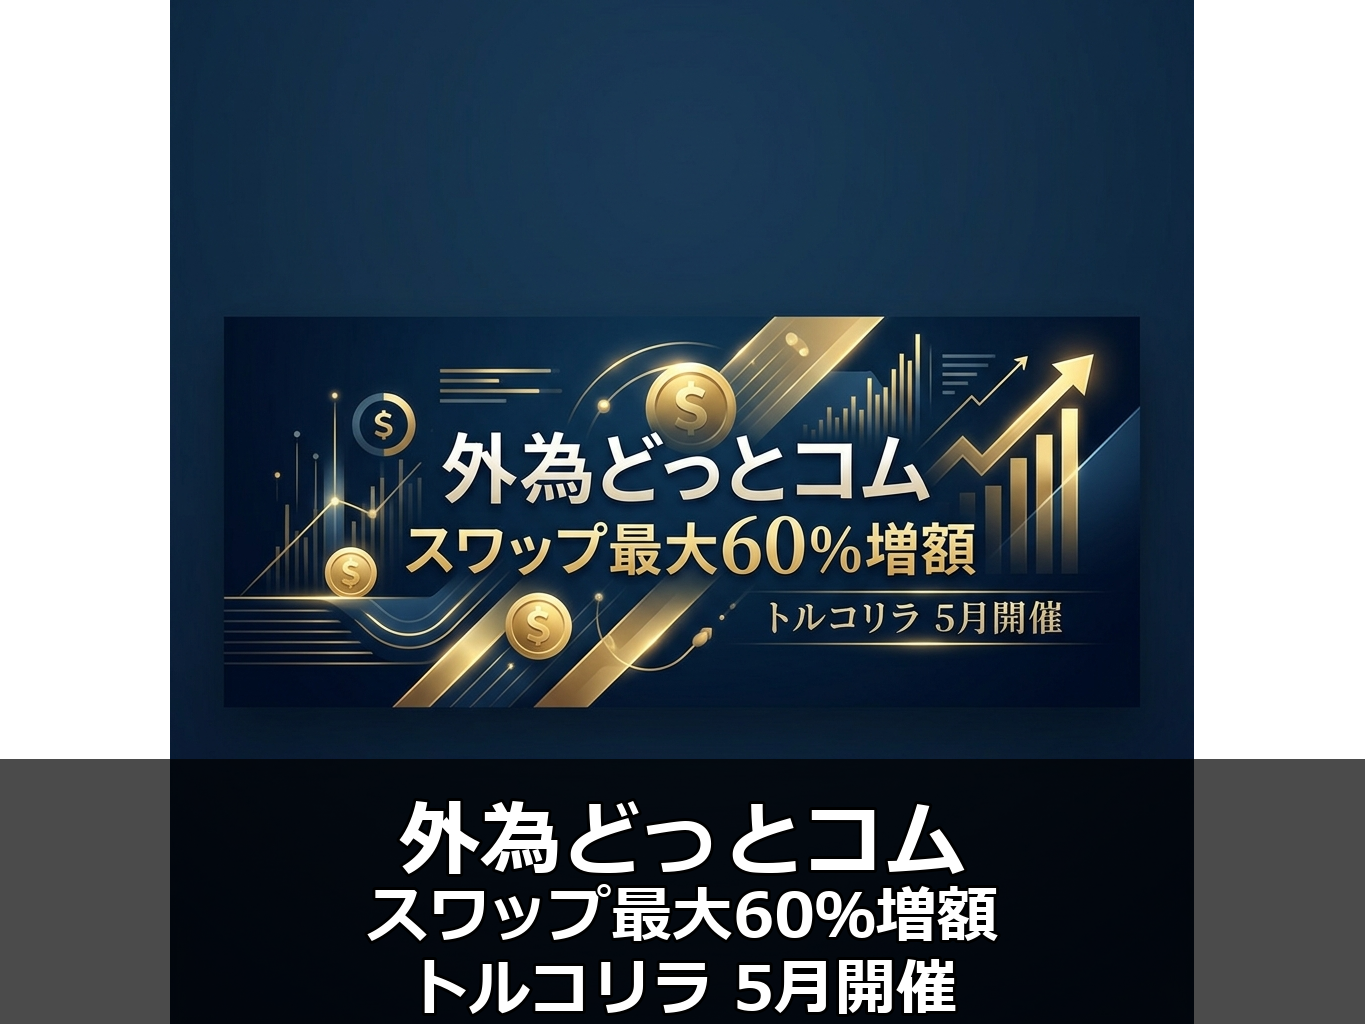
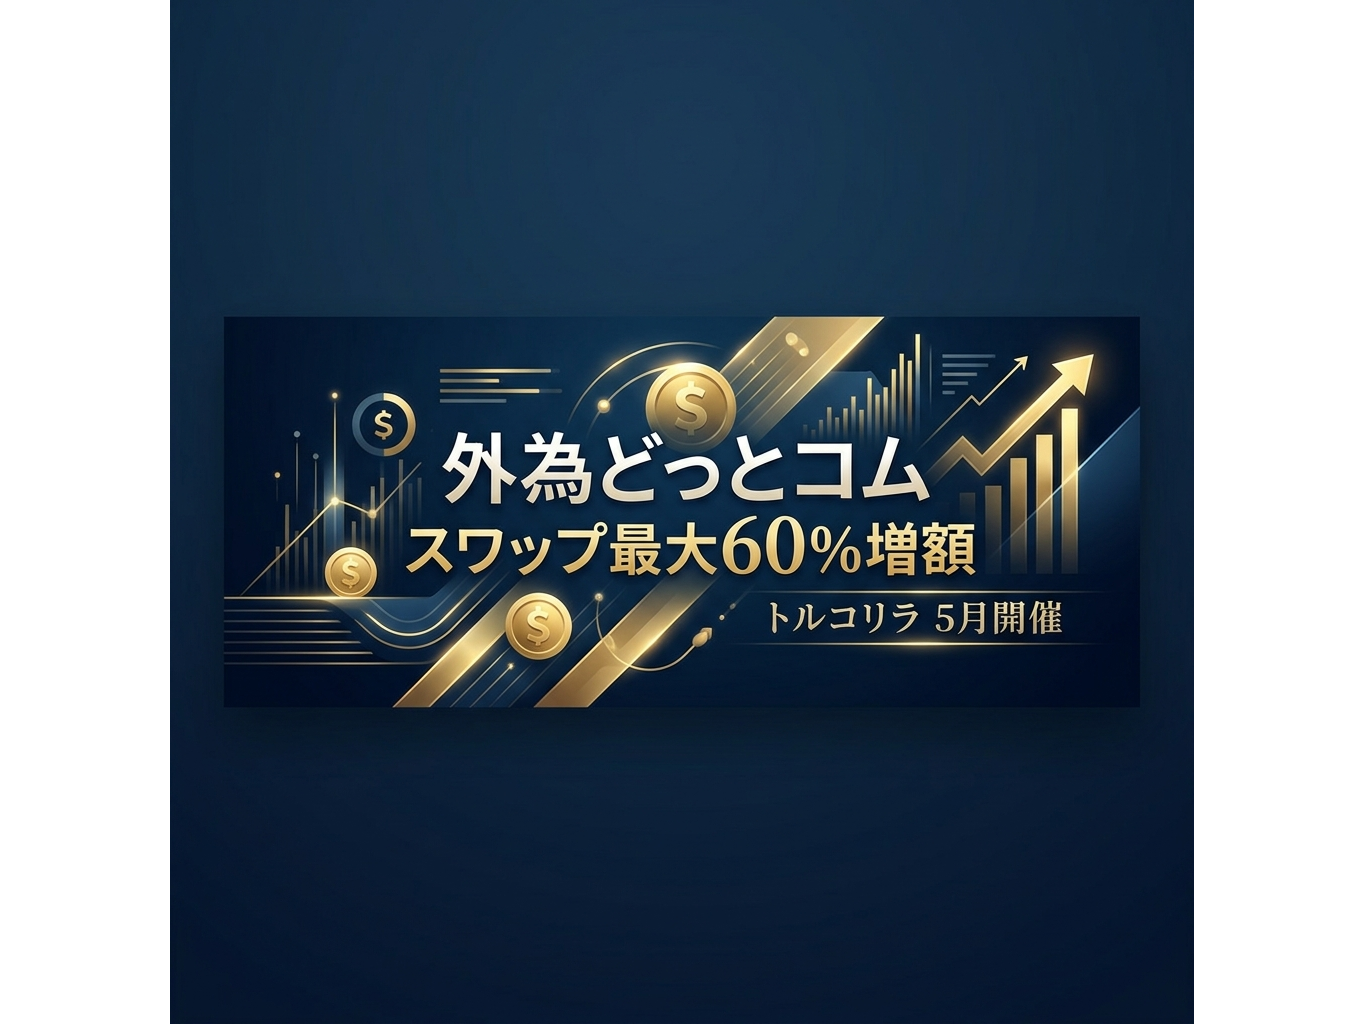
Fix: Remove unwanted title bar from thumbnail

Changed region(s): [[0.0, 0.7188, 1.0, 1.0]]

diff --git a/data/articles.ts b/data/articles.ts
@@ -15,7 +15,6 @@ export const articles: Article[] = [
   id: 'gaitame-swap-campaign-202605',
   title: '【2026年5月】外為どっとコム：トルコリラスワップ最大60％増額キャンペーンが再び開催！',
   share_title: 'トルコリラスワップ最大60％増額キャンペーンが5月も開催！（外為どっとコム）',
-  thumbnail_text: '外為どっとコム\nスワップ最大60％増額\nトルコリラ 5月開催',
   date: '2026/05/02',
   thumbnail: '/images/gaitame-swap-campaign-202605_60.png',
   tags: ['FX', 'トルコリラ', 'スワップ投資', '外為どっとコム', 'キャンペーン'],

diff --git a/scripts/crop_and_place_thumbnail.py b/scripts/crop_and_place_thumbnail.py
@@ -101,8 +101,9 @@ def get_article_details(article_id):
     if article_id not in content:
         return None
     # Extract thumbnail_text
+    # Improved regex to stay within the target article block by ensuring no 'id:' appears before 'thumbnail_text'
     pattern = re.search(
-        r"id:\s*'" + re.escape(article_id) + r"'.*?thumbnail_text:\s*'([^']*)'",
+        r"id:\s*'" + re.escape(article_id) + r"'(?:(?!id:).)*?thumbnail_text:\s*'([^']*)'",
         content, re.DOTALL
     )
     if pattern:
